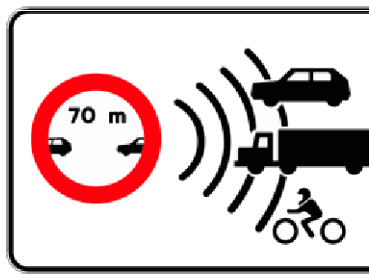
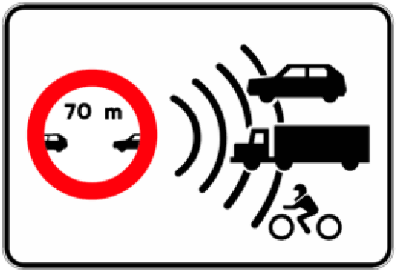
Imágenes: fuentes en imagenes/ (build_data.py las copia a img/) y caché v32
Claude-Session: https://claude.ai/code/session_01NUXRtYyxxR48eZm6rV7bKo

diff --git a/sw.js b/sw.js
@@ -1,5 +1,5 @@
 // Caché sencilla para usar la web sin conexión. Cambia VERSION al publicar cambios.
-const VERSION = "v31";
+const VERSION = "v32";
 const FICHEROS = ["./", "index.html", "estilos.css", "progreso.js", "nube.js", "vendor/firebase.js", "animo.js", "app.js", "estudiar.js", "estudiar.css", "camino.js", "camino.css", "errores.js", "companero.js", "perfil.js", "perfil.css", "fuentes-web/nunito.woff2", "data/preguntas.js", "data/errores.js", "data/escenas.js", "escenas.js", "escenas.css", "escenas-via.js", "escenas-via.css", "data/explora.js", "explora.js", "explora.css", "icono.svg", "manifest.webmanifest"];
 self.addEventListener("install", e => e.waitUntil(caches.open(VERSION).then(c => c.addAll(FICHEROS)).then(() => self.skipWaiting())));
 self.addEventListener("activate", e => e.waitUntil(caches.keys().then(ks => Promise.all(ks.filter(k => k !== VERSION).map(k => caches.delete(k)))).then(() => self.clients.claim())));

diff --git a/imagenes/marcas/vista_marcas.py b/imagenes/marcas/vista_marcas.py
@@ -10,7 +10,7 @@ plano del BOE (img/marcas/*.png): se quitan las cotas con una apertura morfológ
 y se conserva la forma oficial. Las líneas, cebreados, damero, cuadrícula y zigzag
 se dibujan por código con las medidas del catálogo.
 
-Uso:  python3 imagenes/marcas/vista_marcas.py        -> img/marcas-vista/*.jpg
+Uso:  python3 imagenes/marcas/vista_marcas.py        -> imagenes/marcas-vista/*.jpg (y build_data.py a img/)
 """
 import os
 
@@ -19,7 +19,7 @@ from PIL import Image, ImageDraw, ImageFilter
 
 RAIZ = os.path.dirname(os.path.dirname(os.path.dirname(os.path.abspath(__file__))))
 PLANOS = os.path.join(RAIZ, "img", "marcas")
-SALIDA = os.path.join(RAIZ, "img", "marcas-vista")
+SALIDA = os.path.join(RAIZ, "imagenes", "marcas-vista")  # build_data.py lo copia a img/
 
 PXM = 50                 # píxeles por metro en el plano cenital
 ANCHO, ALTO = 960, 600   # imagen final (se dibuja al doble y se reduce)
